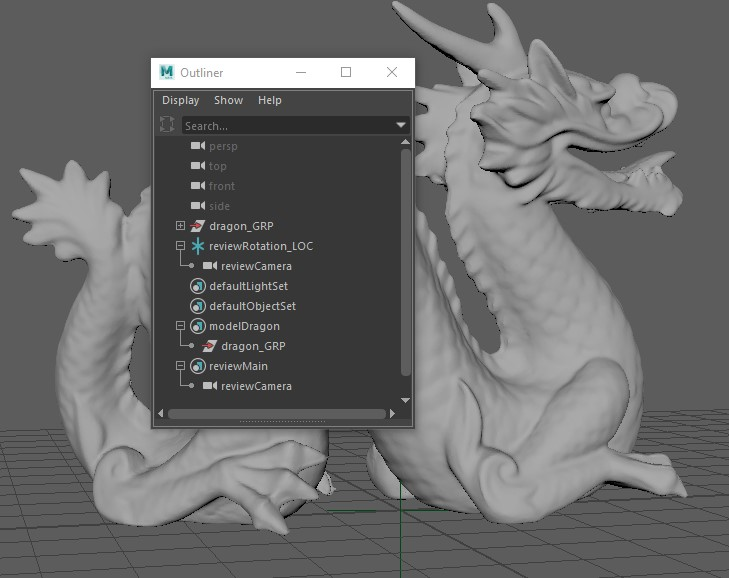
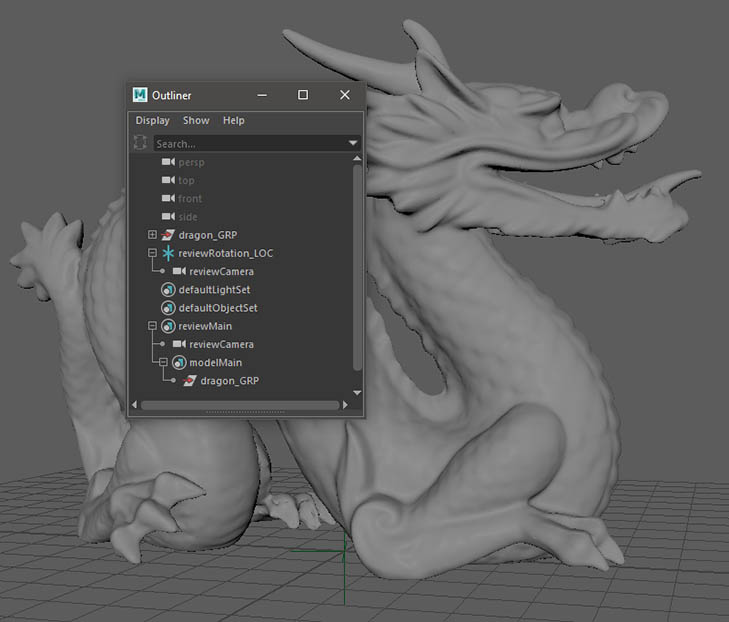
fix review info for maya

diff --git a/website/docs/artist_hosts_maya.md b/website/docs/artist_hosts_maya.md
@@ -531,7 +531,10 @@ OpenPype supports creating review video for almost any type of data you want to 
 What we call review video is actually _playblast_ or _capture_ (depending on terminology
 you are familiar with) made from pre-defined camera in scene. This is very useful
 in cases where you want to add turntable preview of your model for example. But it can
-be used to generate preview for animation, simulations, and so on.
+be used to generate preview for animation, simulations, and so on. You can either
+publish review as separate subset version, or you can attach generated video to subset you
+are publishing - for example attach video of turntable rotation to published model as in
+following example.
 
 ### Setting scene for review extraction
 
@@ -570,9 +573,13 @@ on this set to control review video generation:
 * `Step` - number of steps
 * `Fps` - framerate
 
+Next step is to move your model set to review set so it will be connected to each other.
+
 This is my scene:
 
 ![Maya - Review model setup](assets/maya-model_review_setup.jpg)
+
+You see that `modelMain` in under `reviewMain` with `reviewCamera`.
 
 _* note that I had to fix UVs and normals on Stanford dragon model as it wouldn't pass
 model validators_
@@ -588,6 +595,8 @@ version. All parts of this process - like what burnins, what type of video file,
 settings for Maya playblast - can be customized by your TDs. For more information
 about customizing review process refer to [admin section](admin_presets_plugins).
 
+If you don't move `modelMain` into `reviewMain`, review will be generated but it will
+be published as separate entity.
 
 ## Working with Yeti in OpenPype
 
